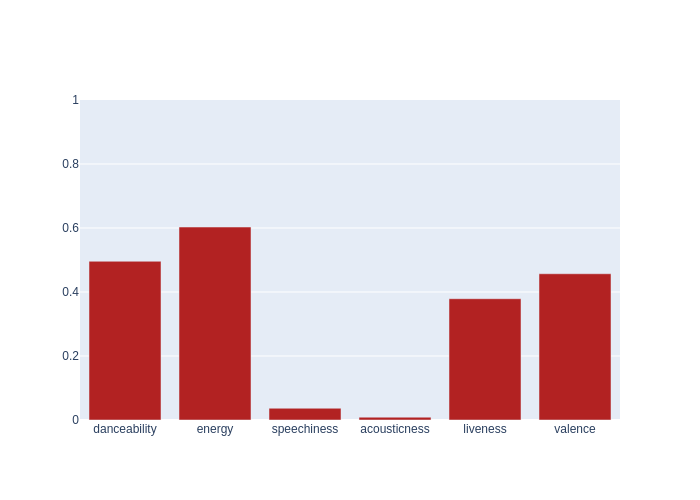
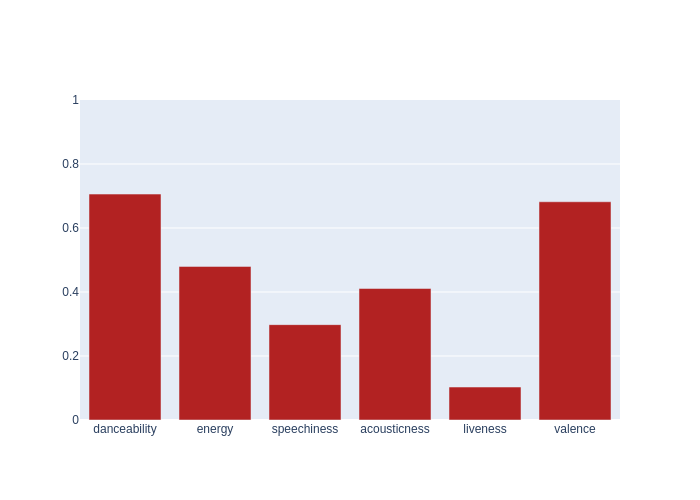
Automated README update

Changed region(s): [[0.36, 0.57, 0.75, 0.84], [0.12, 0.39, 0.36, 0.54], [0.75, 0.39, 0.87, 0.57]]

diff --git a/README.md b/README.md
@@ -4,7 +4,7 @@ Automated music metrics for fun, updated hourly.
 
 ## Spotify
 
-- currently listening to **NOT A TOY - J Cash**
+- currently listening to **Rexx Life Raj - Moonwalk**
 
 - **863** liked songs
 - **135** playlists
